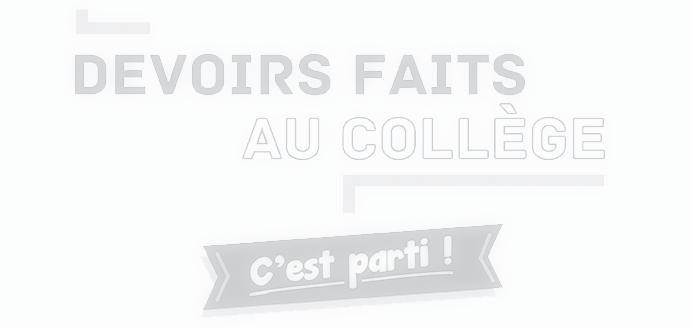
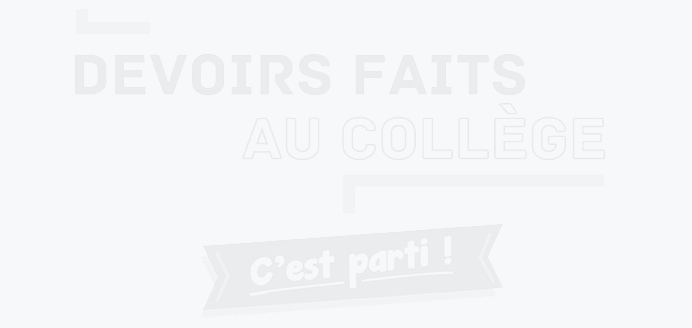
modif img de fond + delete ok

diff --git a/src/app/services/creneau.service.ts b/src/app/services/creneau.service.ts
@@ -4,13 +4,14 @@ import { User } from "./../model/model.user";
 import { Http, Response, RequestOptions, Headers } from '@angular/http';
 import { Moment } from 'moment';
 import { Room } from '../model/model.room';
+import {environment} from '../../environments/environment';
 
 
 
 @Injectable()
 export class CreneauService {
 
-  newCreneau: CourseSlot = { id: null, dateDebut: 0, dateFin: 0, profs: [], eleves: [], salle: null };
+  newCreneau: CourseSlot = { id: null, dateDebut: 0, dateFin: 0, professeurs: [], eleves: [], salle: null };
 
   constructor(private http: Http) { }
 
@@ -19,16 +20,22 @@ export class CreneauService {
     this.newCreneau.dateDebut = debut;
     this.newCreneau.dateFin = fin;
     this.newCreneau.eleves = eleves;
-    this.newCreneau.profs = profs;
+    this.newCreneau.professeurs = profs;
     this.newCreneau.salle = salle;
     this.postSlot(this.newCreneau);
-    console.log(profs);
+    console.log(this.newCreneau);
   }
 
   postSlot(newCreneau:CourseSlot) {
     let headers = new Headers({ 'Content-Type': 'application/json' });
     let options = new RequestOptions({ headers: headers });
     let body = JSON.stringify(newCreneau);
-    this.http.post('http://localhost:8080/etablissement/1/creneaux', body, options ).subscribe(res => console.log(res.json()));
+    this.http.post('http://localhost:8080/etablissements/1/creneaux', body, options ).subscribe(res => console.log(res.json()));
+  }
+
+  deleteSelected (idEtablissement:number, id:number) {
+    const url = environment.API_URL+"/etablissements/" + idEtablissement + "/creneaux/" + id + "/";
+    console.log(url);
+    return this.http.delete(url).subscribe(res => console.log(res.json()));
   }
 }

diff --git a/src/app/components/calendar-slot/calendar-slot.component.ts b/src/app/components/calendar-slot/calendar-slot.component.ts
@@ -2,6 +2,7 @@ import { Component, OnInit, Input } from '@angular/core';
 import { duration, utc } from 'moment';
 import { CourseSlot } from '../../model/model.course-slots';
 import { User } from '../../model/model.user';
+import { CreneauService } from '../../services/creneau.service';
 
 @Component({
   selector: 'calendar-slot',
@@ -11,8 +12,17 @@ import { User } from '../../model/model.user';
 export class CalendarSlotComponent implements OnInit {
 
   @Input() private slotValue: CourseSlot;
+  currentUser: User;
+  administrateur: boolean;
 
-  constructor() { }
+  constructor(private creneauService: CreneauService) {
+    this.currentUser = JSON.parse(localStorage.getItem('currentUser'));
+    console.log("this.currentUser.privilege : " + this.currentUser.privilege);
+
+    if (this.currentUser.privilege == "Administrateur") {
+      this.administrateur = true;
+    }
+   }
 
   ngOnInit() {
   }
@@ -44,4 +54,7 @@ export class CalendarSlotComponent implements OnInit {
     return " non définie";
   }
 
+  deleteSlot(slotId: number) {
+    this.creneauService.deleteSelected(this.currentUser.idEtablissement, slotId);
+  }
 }

diff --git a/src/app/components/calendar-slot/calendar-slot.component.html b/src/app/components/calendar-slot/calendar-slot.component.html
@@ -3,13 +3,18 @@
         <div class="col-12 stretch-card">
             <div class="card slot">
                 <div class="card-body">
-                    <h2>{{slot.dateDebut | date:'HH:mm'}} - Salle {{salle}}</h2>
+                    <a href="creneau?id={{slot.idCreneau}}">
+                        <h2>{{slot.dateDebut | date:'HH:mm'}} - Salle {{salle}}</h2>
+                    </a>
                     <div class="content">
                         <p class="duration">{{duration | date:'HH:mm'}} h</p>
-                        <span class="far fa-trash-alt trash"></span>
+                        <button class="btn btn-link" (click)="deleteSlot(slot.idCreneau)">
+                            <span class="far fa-trash-alt trash"></span>
+                        </button>
                     </div>
                 </div>
             </div>
+
         </div>
     </div>
 </div>

diff --git a/src/app/components/page-creneau/page-creneau.component.html b/src/app/components/page-creneau/page-creneau.component.html
@@ -1,4 +1,10 @@
-<h4 class="card-title">{{titre}}</h4>
+<div class="row purchace-popup">
+  <div class="col-12">
+    <span class="d-flex alifn-items-center">
+      <h1>{{titre}}</h1>
+    </span>
+  </div>
+</div>
 <form class="forms-sample">
   <div class="row">
     <div class="col-md-6 grid-margin stretch-card">
@@ -18,7 +24,7 @@
           </div>
           <div class="form-group">
             <label for="salle-creneau">Salle</label>
-            <select class="form-control" #selectedValue name="selectedSalles" id="selectedSalles" [(ngModel)]="selectedSalles">
+            <select class="form-control" #selectedValue name="selectedSalles" id="selectedSalles" [(ngModel)]="selectedSalles" (ngModelChange)="addSalleToSelected($event)">
               <option *ngFor="let salle of allSalleEtb | async" [ngValue]="salle">{{salle.nom}}</option>
             </select>
           </div>

diff --git a/src/app/components/page-creneau/page-creneau.component.ts b/src/app/components/page-creneau/page-creneau.component.ts
@@ -77,6 +77,7 @@ export class PageCreneauComponent implements OnInit {
   majTitre() { this.titre = "Création du créneau du " + this.date_creneau.toString(); }
 
   onSend() {
+    console.log(this.salleSelected);
     this.courseservice.createSlot(moment(this.date_creneau + " " + this.heure_debut).unix(),
                                   moment(this.date_creneau + " " + this.heure_fin).unix(),
                                   this.selectedEleves,
@@ -98,5 +99,9 @@ export class PageCreneauComponent implements OnInit {
     if (index !== -1) {
       this.selectedEleves.splice(index, 1);
     }
+  }
+
+  addSalleToSelected(salle) {
+    this.salleSelected=salle;
   }
 }

diff --git a/src/app/components/calendar-slot/calendar-slot.component.scss b/src/app/components/calendar-slot/calendar-slot.component.scss
@@ -2,19 +2,21 @@
     width: 100%;
     padding: 0px;
     background-color: rgba(225, 225, 225, 0.125);
-    border-radius: 4px;
-    
+    border-radius: 4px;    
 }
 
 
-h2 {
+a h2 {
+    color: black;
     font-size: 0.8em;
     text-align: center;
     padding-top: 5px;
+    border-radius: 4px;
 }
 
 .card.slot {
     border: 0;
+    margin-bottom: 0.5em;
 }
 
 .content {
@@ -34,7 +36,8 @@ p.duration {
     padding: 0;
 }
 
-span.trash {
+.btn, .btn-link,  span.trash {
+    color: red;
     display: inline-block;
     width: 100%;
     text-align: right;

diff --git a/src/app/services/courses-slots.service.ts b/src/app/services/courses-slots.service.ts
@@ -18,6 +18,6 @@ export class CourseSlotsService {
 
   fetchSlots(id: number, year: number, week:number): Observable<CourseSlot []>
   {
-    return this.httpClient.get<CourseSlot []>(environment.API_URL + "/etablissement/1/creneaux?year="+ year + "&week=" + week );
+    return this.httpClient.get<CourseSlot []>(environment.API_URL + "/etablissements/1/creneaux?year="+ year + "&week=" + week );
   }
 }

diff --git a/src/app/components/calendar/calendar.component.scss b/src/app/components/calendar/calendar.component.scss
@@ -3,7 +3,7 @@
 }
 
 .custom-fond {
-        background-image: url("../../../assets/template-wcs/img/fond.jpg");
+        background-image: url("../../../assets/template-wcs/img/fond2.jpg");
         background-position: center;
         background-repeat: no-repeat;
 }

diff --git a/src/app/model/model.courseslot.ts b/src/app/model/model.courseslot.ts
@@ -5,7 +5,7 @@ export class CourseSlot {
     id: number;
     dateDebut: number;
     dateFin: number;
-    profs: User[];
+    professeurs: User[];
     eleves: User[];
     salle: Room;
 }
